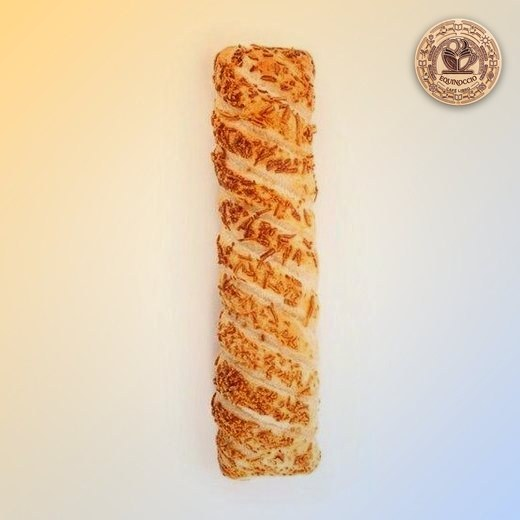
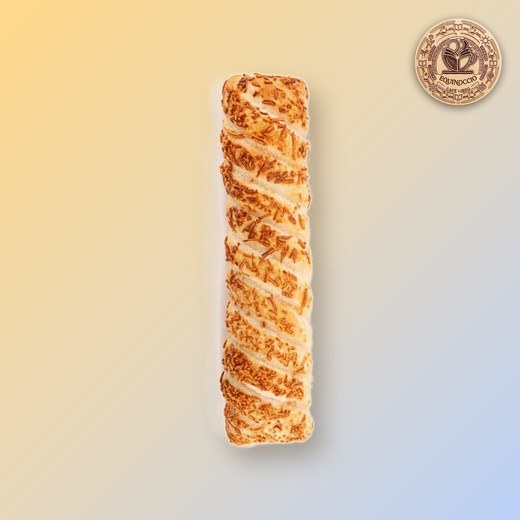
Cien Años de Soledad: foto del Drive, palito de queso crema; foto del palito queso crema desde el documento de Pastry
Claude-Session: https://claude.ai/code/session_01BZAH3jstTWfNAJgntfymtE

Changed region(s): [[0.4, 0.0615, 0.7692, 0.9231], [0.0923, 0.1846, 0.3692, 0.7692], [0.2769, 0.7692, 0.3077, 0.8]]

diff --git a/index.html b/index.html
@@ -619,7 +619,7 @@ footer .wrap{display:flex;flex-wrap:wrap;justify-content:space-between;gap:1rem}
 const PHOTOS = {"Croissant bicolor chocolate mantequilla": "assets/pasteleria/croissant-bicolor-chocolate-mantequilla.jpg", "Croissant de almendras": "assets/pasteleria/croissant-de-almendras.jpg", "Croissant bicolor frutos rojos": "assets/pasteleria/croissant-bicolor-frutos-rojos.jpg", "Rollo de canela": "assets/pasteleria/rollo-de-canela.jpg", "Crookie": "assets/pasteleria/crookie.jpg", "Mini Pan de Bono": "assets/pasteleria/pan-de-bono.jpg", "Palito queso crema": "assets/pasteleria/palito-queso-crema.jpg", "Mini-almojábana": "assets/pasteleria/almojabana.jpg", "Flauta de chocolate": "assets/pasteleria/flauta-de-chocolate.jpg", "Pastel de pollo carbonara": "assets/pasteleria/pastel-de-pollo-carbonara.jpg", "Pastel de espinaca y queso ricotta": "assets/pasteleria/pastel-de-espinaca-y-queso-ricotta.jpg", "Pastel de carne ranchero": "assets/pasteleria/pastel-de-carne-ranchero.jpg", "Pan de chocolate mantequilla": "assets/pasteleria/pan-de-chocolate-mantequilla.jpg", "Pastel de manzana": "assets/pasteleria/pastel-de-manzana.jpg", "Pastel de pollo": "assets/pasteleria/pastel-de-pollo.jpg", "Croissant multicereal mantequilla": "assets/pasteleria/croissant-multicereal-mantequilla.jpg", "Croissant Europa": "assets/pasteleria/croissant-europa.jpg", "Mini roscón de arequipe": "assets/pasteleria/mini-roscon-de-arequipe.jpg", "Palito de bocadillo y queso": "assets/pasteleria/palito-de-bocadillo-y-queso.jpg", "Pastel de arequipe": "assets/pasteleria/pastel-de-arequipe.jpg", "Pastel de zanahoria": "assets/pasteleria/pastel-de-zanahoria.jpg"};
 const DRINK_IMGS = {"Cappuccino Clásico":"assets/menu/cappuccino.jpg","Mocha Equinoccio Clásico":"assets/menu/mocha-equinoccio.jpg"};
 const CAT_IMGS = {"Sodas Frutales":["assets/menu/sodas.jpg","Tres sodas frutales con borde escarchado de azúcar morena: una morada, una amarilla y una roja, con fresa y limón"]};
-const MENU = {"categories": [{"name": "Bebidas Calientes · Café", "note": "Leche a elección: entera, deslactosada o de almendras", "items": [{"name": "Espresso Clásico", "description": "", "price": 4000, "tags": ["café", "caliente"], "additions": ["Miel", "Vainilla", "Caramelo"]}, {"name": "Americano Clásico", "description": "", "price": 4500, "tags": ["café", "caliente"], "additions": ["Vainilla", "Caramelo", "Miel"]}, {"name": "Macchiato Clásico", "description": "", "price": 6000, "tags": ["café", "caliente"], "additions": ["Caramelo", "Arequipe", "Cocoa", "Leche condensada"]}, {"name": "Flat White Clásico", "description": "", "price": 7000, "tags": ["café", "caliente"], "additions": ["Vainilla", "Caramelo", "Miel", "Leche condensada"]}, {"name": "Latte Clásico", "description": "", "price": 8000, "tags": ["café", "caliente"], "additions": ["Vainilla", "Caramelo", "Arequipe", "Leche condensada"]}, {"name": "Cappuccino Clásico", "description": "", "price": 9000, "tags": ["café", "caliente"], "additions": ["Cocoa", "Arequipe", "Caramelo", "Vainilla", "Chocolate", "Leche condensada"]}, {"name": "Mocha Equinoccio Clásico", "description": "", "price": 10000, "tags": ["café", "caliente", "de la casa"], "additions": ["Caramelo", "Arequipe", "Vainilla", "Crema chantillí", "Leche condensada"]}, {"name": "Affogato Clásico", "description": "Con helado de vainilla", "price": 11000, "tags": ["café", "helado"], "additions": ["Chantillí", "Caramelo", "Arequipe", "Cocoa", "Leche condensada"]}]}, {"name": "Chocolate caliente", "items": [{"name": "Hot Chocolate", "description": "Con malvaviscos (marshmallows)", "price": 10000, "tags": ["sin café", "caliente"]}]}, {"name": "Bebidas Frías · Café", "note": "Leche a elección: entera, deslactosada o de almendras", "items": [{"name": "Cold Brew", "description": "Café frío 24 horas y hielo. Normal, sin adición.", "price": 8000, "tags": ["café", "frío"], "additions": ["Leche espuma", "Frutos rojos", "Frutos verdes", "Frutos amarillos", "Leche condensada"], "addFlat": 2000, "addText": "Leche espuma + Frutos rojos o Frutos verdes o Frutos amarillos o Leche condensada"}, {"name": "Iced Latte", "description": "Espresso, leche fría, espuma e hielo", "price": 8000, "tags": ["café", "frío"], "additions": ["Vainilla", "Caramelo", "Arequipe", "Leche condensada", "Miel"]}, {"name": "Iced Caramel Latte", "description": "Espresso, caramelo, leche fría, espuma e hielo", "price": 8000, "tags": ["café", "frío"], "additions": ["Vainilla", "Cocoa", "Chocolate", "Arequipe", "Leche condensada"]}, {"name": "Iced Mocha Equinoccio", "description": "Espresso, chocolate, leche, nubes de espuma y hielo", "price": 10000, "tags": ["café", "frío", "de la casa"], "additions": ["Caramelo", "Arequipe", "Vainilla", "Crema chantillí", "Leche condensada"]}, {"name": "Iced Macchiaramelo Equinoccio", "description": "Espresso, vainilla, caramelo, leche, nubes de espuma y hielo", "price": 10000, "tags": ["café", "frío", "de la casa", "foto disponible"], "additions": ["Arequipe", "Crema chantillí", "Leche condensada"]}, {"name": "Fuego de Equinoccio", "description": "Espresso, vainilla, chocolate, leche, nubes de espuma y hielo", "price": 10000, "tags": ["café", "frío", "de la casa"], "additions": ["Arequipe", "Crema chantillí", "Leche condensada"]}, {"name": "Eclipse de Equinoccio", "description": "Agua, café granulado espumoso, leche, chocolate y hielo", "price": 10000, "tags": ["café", "frío", "de la casa"], "additions": ["Crema chantillí", "Leche condensada"]}, {"name": "Sol de Media Noche", "description": "Espresso doble, leche espumada, leche condensada o caramelo y hielo", "price": 10000, "tags": ["café", "frío", "de la casa"], "additions": ["Miel", "Cacao", "Chantillí", "Chocolate"]}]}, {"name": "Malteadas", "items": [{"name": "Malteada", "description": "", "price": 10000, "tags": ["sin café", "frío"], "flavors": ["Vainilla", "Macadamia"]}]}, {"name": "Sodas Frutales", "items": [{"name": "Soda Néctar Solar", "description": "Frutos amarillos. Escarchado con azúcar morena, tajín, azúcar o sal, dulce artesanal de maracuyá, perlas de lulo, agua con gas, rodaja de limón, hojas de menta e hielo.", "price": 10000, "tags": ["sin café", "frío"], "additions": ["Miel", "Panela"]}, {"name": "Soda Bosque Tropical", "description": "Frutos verdes. Escarchado con azúcar morena, tajín, azúcar o sal, dulce artesanal de mango, sirope de mango biche, limón, agua con gas, rodaja de kiwi o naranja, hojas de menta y hielo.", "price": 10000, "tags": ["sin café", "frío"], "additions": ["Miel", "Panela"]}, {"name": "Soda Pasión", "description": "Frutos rojos. Escarchado con azúcar morena, tajín, azúcar o sal, dulce artesanal de fresa, dulce artesanal de mora, agua de Jamaica, agua con gas, rodaja de limón o naranja, rodaja de fresa o manzana roja, hojas de menta y hielo.", "price": 10000, "tags": ["sin café", "frío"], "additions": ["Dulce artesanal de cereza", "Miel", "Panela"]}, {"name": "Soda Eclipse Azul", "description": "Frutos azules. Escarchado con azúcar morena, tajín, azúcar o sal, dulce artesanal de arándano, sirope de blueberry, agua con gas, rodaja de limón o naranja, hojas de menta y hielo.", "price": 10000, "tags": ["sin café", "frío"], "additions": ["Miel", "Panela"]}]}, {"name": "Tés Equinoccio", "note": "Servidos en Chemex", "items": [{"name": "Marea de Luna", "description": "Escarchado con azúcar morena, té de Frambuesa - Cacao, dulce artesanal de arándano, fresa o mora + sirope de cereza, hojas de menta.", "price": 8000, "tags": ["té", "sin café"], "additions": ["Miel"]}, {"name": "Rayo de Sol", "description": "Escarchado con azúcar morena, té de naranja-piña, dulce artesanal de maracuyá o lulo + sirope de maracuyá, hojas de menta.", "price": 8000, "tags": ["té", "sin café"], "additions": ["Miel"]}, {"name": "Luz de Primavera", "description": "Escarchado con azúcar morena, té de hierbabuena, dulce artesanal de manzana roja o verde + sirope de manzana sour, hojas de menta.", "price": 8000, "tags": ["té", "sin café"], "additions": ["Miel"]}]}, {"name": "Aromáticas Equinoccio", "items": [{"name": "Té Equinoccio", "description": "Té a elección, hoja de menta.", "price": 6000, "tags": ["aromática", "sin café", "caliente"], "flavors": ["Manzanilla", "Cidrón", "Toronjil", "Hierbabuena", "Limoncillo", "Maracuyá", "Flor de Jamaica"]}]}, {"name": "Pastelería y Panadería", "items": [{"name": "Croissant bicolor chocolate mantequilla", "description": "", "price": 6500, "tags": ["pastelería"], "priceSmall": 4500}, {"name": "Croissant de almendras", "description": "", "price": 6500, "tags": ["pastelería", "contiene frutos secos"], "priceSmall": 4500}, {"name": "Croissant bicolor frutos rojos", "description": "", "price": 6500, "tags": ["pastelería"], "priceSmall": 4500}, {"name": "Rollo de canela", "description": "", "price": 6500, "tags": ["pastelería"], "priceSmall": 4500}, {"name": "Crookie", "description": "", "price": 6500, "tags": ["pastelería"], "priceSmall": 4500}, {"name": "Mini Pan de Bono", "description": "", "price": 2500, "tags": ["panadería", "tradicional colombiano"]}, {"name": "Palito queso crema", "description": "", "price": 6500, "tags": ["panadería"], "priceSmall": 4500}, {"name": "Mini-almojábana", "description": "", "price": 2500, "tags": ["panadería", "tradicional colombiano"]}, {"name": "Flauta de chocolate", "description": "", "price": 6500, "tags": ["pastelería"]}, {"name": "Pastel de pollo carbonara", "description": "Grande de 100 g", "price": 7500, "tags": ["hojaldre", "salado"]}, {"name": "Pastel de espinaca y queso ricotta", "description": "Grande de 95 g", "price": 7500, "tags": ["hojaldre", "salado", "vegetariano"], "priceSmall": 4500}, {"name": "Pastel de carne ranchero", "description": "Grande de 100 g", "price": 7500, "tags": ["hojaldre", "salado"]}, {"name": "Pan de chocolate mantequilla", "description": "", "price": 3500, "tags": ["pastelería"]}, {"name": "Pastel de manzana", "description": "", "price": 6500, "tags": ["hojaldre", "dulce"], "priceSmall": 4500}, {"name": "Pastel de zanahoria", "description": "Con queso crema o suero costeño y ralladura de limón", "price": 6500, "tags": ["pastelería", "dulce"]}, {"name": "Pastel de pollo", "description": "", "price": 5000, "tags": ["hojaldre", "salado"]}, {"name": "Croissant multicereal mantequilla", "description": "", "price": 6500, "tags": ["pastelería"], "priceSmall": 4500}, {"name": "Croissant Europa", "description": "90 g. Jamón de cerdo o de pollo, queso mozzarella o queso crema, con lechuga, tomate y mayonesa al gusto.", "price": 12000, "tags": ["panadería", "salado"], "additions": ["Aguacate", "Jamón extra"], "addFlat": 1000, "addText": "Aguacate o jamón extra"}, {"name": "Mini roscón de arequipe", "description": "", "price": 2000, "tags": ["panadería", "tradicional colombiano"]}, {"name": "Palito de bocadillo y queso", "description": "", "price": 6500, "tags": ["panadería", "tradicional colombiano"], "priceSmall": 4500}, {"name": "Pastel de arequipe", "description": "", "price": 6500, "tags": ["hojaldre", "dulce"], "priceSmall": 4500}]}, {"name": "Combos Literarios", "note": "Una bebida y un producto de pastelería a precio especial. Adultos: calientes de 250 ml y sodas de 650 ml. Infantiles: calientes de 150 ml y sodas de 350 ml. Precios sin adiciones.", "combo": true, "items": [{"name": "El Principito", "audience": "Adultos", "salon": "Salón Luna", "quote": "Lo esencial es invisible a los ojos.", "tagline": "Un Sol de Media Noche para mirar las estrellas del salón Luna.", "drink": "Sol de Media Noche (Leche condensada con leche espumada, hielo, espresso doble y caramelo)", "bite": "Croissant bicolor de frutos rojos", "price": 15500, "save": 1000, "img": "assets/combos/principito.jpg", "tags": ["combo", "adultos"], "drinkName": "Sol de Media Noche", "temp": "Fría", "ingredients": "Leche condensada con leche espumada, hielo, espresso doble y caramelo"}, {"name": "Alicia en el País de las Maravillas", "audience": "Adultos", "salon": "Salón Equinoccio", "quote": "Cómeme” y “Bébeme", "tagline": "Una merienda de té y fantasía en el salón Equinoccio.", "drink": "Marea de Luna (Té de Frambuesa - Cacao, dulce artesanal de arándano o fresa y sirope de cereza, servido en Chemex)", "bite": "Crookie", "price": 13500, "save": 1000, "img": "assets/combos/alicia.jpg", "tags": ["combo", "adultos"], "drinkName": "Marea de Luna", "temp": "Fría", "ingredients": "Té de Frambuesa - Cacao, dulce artesanal de arándano o fresa y sirope de cereza, servido en Chemex"}, {"name": "Cien Años de Soledad", "audience": "Adultos", "salon": "Salón Sol", "quote": "Nadie se alarmó porque nadie tenía sueño.", "tagline": "Una tarde amarilla, con mariposas y sabores de Macondo.", "drink": "Soda Noche de Insomnio (Dulce artesanal de naranja, maracuyá y lulo)", "bite": "Palito de bocadillo y queso", "price": 15500, "save": 1000, "img": "assets/combos/cien.jpg", "tags": ["combo", "adultos"], "drinkName": "Soda Noche de Insomnio", "temp": "Fría", "ingredients": "Dulce artesanal de naranja, maracuyá y lulo"}, {"name": "Star Wars", "audience": "Adultos", "salon": "Salón Equinoccio", "quote": "Que la Fuerza te acompañe.", "tagline": "Dos soles, una soda azul y chocolate: una galaxia muy lejana en tu mesa.", "drink": "Soda Eclipse Azul (Dulce artesanal de Arándanos, sirope de Curazao y perlas de chicle)", "bite": "Flauta de chocolate", "price": 15500, "save": 1000, "img": "assets/combos/starwars.jpg", "tags": ["combo", "adultos"], "drinkName": "Soda Eclipse Azul", "temp": "Fría", "ingredients": "Dulce artesanal de Arándanos, sirope de Curazao y perlas de chicle"}, {"name": "Harry Potter", "audience": "Adultos", "salon": "Salón Equinoccio", "quote": "Uno puede encontrar la felicidad incluso en los momentos más oscuros, si uno recuerda encender la luz.", "tagline": "Chocolate caliente espumoso con malvaviscos tostados y un croissant bien servido, como en el Gran Comedor, junto a la chimenea.", "drink": "Hot Chocolate (Chocolate bien caliente y espumoso, con malvaviscos tostados y cacao)", "bite": "Croissant Europa", "price": 21000, "save": 1000, "img": "assets/combos/harrypotter.jpg", "tags": ["combo", "adultos"], "drinkName": "Hot Chocolate", "temp": "Caliente", "ingredients": "Chocolate bien caliente y espumoso, con malvaviscos tostados y cacao"}, {"name": "Peter Pan", "audience": "Niños", "salon": "Salón Luna", "quote": "La segunda estrella a la derecha y todo recto hasta el amanecer.", "tagline": "Una soda verde para volar hasta Nunca Jamás.", "drink": "Soda Bosque Tropical (Sumo de limón, rodajas de limón, rodajas de kiwi y perlas verdes de Lulo)", "bite": "Mini roscón de arequipe", "price": 8500, "save": 500, "img": "assets/combos/peterpan.jpg", "tags": ["combo", "niños"], "drinkName": "Soda Bosque Tropical", "temp": "Fría", "ingredients": "Sumo de limón, rodajas de limón, rodajas de kiwi y perlas verdes de Lulo"}, {"name": "Matilda", "audience": "Niños", "salon": "Salón Luna", "quote": "Los libros le dieron un mensaje de esperanza: no estás sola.", "tagline": "Una merienda para pequeños grandes lectores.", "drink": "Malteada de macadamia (Malteada de tamaño infantil)", "bite": "Pan de bono", "price": 8500, "save": 500, "img": "assets/combos/matilda.jpg", "tags": ["combo", "niños"], "drinkName": "Malteada de macadamia", "temp": "Fría", "ingredients": "Malteada de tamaño infantil"}, {"name": "Caperucita Roja", "audience": "Niños", "salon": "Salón Equinoccio", "quote": "Abuelita, ¡qué ojos tan grandes tienes! — ¡Son para verte mejor!", "tagline": "Una canasta para compartir camino a casa de la abuela.", "drink": "Malteada de vainilla (Malteada de tamaño infantil)", "bite": "Pastel de manzana", "price": 12000, "save": 500, "img": "assets/combos/caperucita.jpg", "tags": ["combo", "niños"], "drinkName": "Malteada de vainilla", "temp": "Fría", "ingredients": "Malteada de tamaño infantil"}, {"name": "Charlie y la Fábrica de Chocolate", "audience": "Niños", "salon": "Salón Sol", "quote": "¡Grandes cosas te esperan! ¡Muchas sorpresas maravillosas te aguardan!", "tagline": "Chocolate caliente y un boleto dorado para tu merienda.", "drink": "Chocolate caliente infantil (Chocolate caliente con malvaviscos)", "bite": "Pan de chocolate", "price": 9500, "save": 500, "img": "assets/combos/charlie.jpg", "tags": ["combo", "niños"], "drinkName": "Chocolate caliente infantil", "temp": "Caliente", "ingredients": "Chocolate caliente con malvaviscos", "unavailable": true}, {"name": "Hansel y Gretel", "audience": "Niños", "salon": "Salón Equinoccio", "quote": "Mordisquea, mordisquea, ratoncito, ¿quién mordisquea mi casita?", "tagline": "Una casita de dulce para no perderse.", "drink": "Malteada de vainilla (Malteada de tamaño infantil)", "bite": "Pastel de arequipe", "price": 10000, "save": 500, "img": "assets/combos/hansel.jpg", "tags": ["combo", "niños"], "drinkName": "Malteada de vainilla", "temp": "Fría", "ingredients": "Malteada de tamaño infantil"}]}]};
+const MENU = {"categories": [{"name": "Bebidas Calientes · Café", "note": "Leche a elección: entera, deslactosada o de almendras", "items": [{"name": "Espresso Clásico", "description": "", "price": 4000, "tags": ["café", "caliente"], "additions": ["Miel", "Vainilla", "Caramelo"]}, {"name": "Americano Clásico", "description": "", "price": 4500, "tags": ["café", "caliente"], "additions": ["Vainilla", "Caramelo", "Miel"]}, {"name": "Macchiato Clásico", "description": "", "price": 6000, "tags": ["café", "caliente"], "additions": ["Caramelo", "Arequipe", "Cocoa", "Leche condensada"]}, {"name": "Flat White Clásico", "description": "", "price": 7000, "tags": ["café", "caliente"], "additions": ["Vainilla", "Caramelo", "Miel", "Leche condensada"]}, {"name": "Latte Clásico", "description": "", "price": 8000, "tags": ["café", "caliente"], "additions": ["Vainilla", "Caramelo", "Arequipe", "Leche condensada"]}, {"name": "Cappuccino Clásico", "description": "", "price": 9000, "tags": ["café", "caliente"], "additions": ["Cocoa", "Arequipe", "Caramelo", "Vainilla", "Chocolate", "Leche condensada"]}, {"name": "Mocha Equinoccio Clásico", "description": "", "price": 10000, "tags": ["café", "caliente", "de la casa"], "additions": ["Caramelo", "Arequipe", "Vainilla", "Crema chantillí", "Leche condensada"]}, {"name": "Affogato Clásico", "description": "Con helado de vainilla", "price": 11000, "tags": ["café", "helado"], "additions": ["Chantillí", "Caramelo", "Arequipe", "Cocoa", "Leche condensada"]}]}, {"name": "Chocolate caliente", "items": [{"name": "Hot Chocolate", "description": "Con malvaviscos (marshmallows)", "price": 10000, "tags": ["sin café", "caliente"]}]}, {"name": "Bebidas Frías · Café", "note": "Leche a elección: entera, deslactosada o de almendras", "items": [{"name": "Cold Brew", "description": "Café frío 24 horas y hielo. Normal, sin adición.", "price": 8000, "tags": ["café", "frío"], "additions": ["Leche espuma", "Frutos rojos", "Frutos verdes", "Frutos amarillos", "Leche condensada"], "addFlat": 2000, "addText": "Leche espuma + Frutos rojos o Frutos verdes o Frutos amarillos o Leche condensada"}, {"name": "Iced Latte", "description": "Espresso, leche fría, espuma e hielo", "price": 8000, "tags": ["café", "frío"], "additions": ["Vainilla", "Caramelo", "Arequipe", "Leche condensada", "Miel"]}, {"name": "Iced Caramel Latte", "description": "Espresso, caramelo, leche fría, espuma e hielo", "price": 8000, "tags": ["café", "frío"], "additions": ["Vainilla", "Cocoa", "Chocolate", "Arequipe", "Leche condensada"]}, {"name": "Iced Mocha Equinoccio", "description": "Espresso, chocolate, leche, nubes de espuma y hielo", "price": 10000, "tags": ["café", "frío", "de la casa"], "additions": ["Caramelo", "Arequipe", "Vainilla", "Crema chantillí", "Leche condensada"]}, {"name": "Iced Macchiaramelo Equinoccio", "description": "Espresso, vainilla, caramelo, leche, nubes de espuma y hielo", "price": 10000, "tags": ["café", "frío", "de la casa", "foto disponible"], "additions": ["Arequipe", "Crema chantillí", "Leche condensada"]}, {"name": "Fuego de Equinoccio", "description": "Espresso, vainilla, chocolate, leche, nubes de espuma y hielo", "price": 10000, "tags": ["café", "frío", "de la casa"], "additions": ["Arequipe", "Crema chantillí", "Leche condensada"]}, {"name": "Eclipse de Equinoccio", "description": "Agua, café granulado espumoso, leche, chocolate y hielo", "price": 10000, "tags": ["café", "frío", "de la casa"], "additions": ["Crema chantillí", "Leche condensada"]}, {"name": "Sol de Media Noche", "description": "Espresso doble, leche espumada, leche condensada o caramelo y hielo", "price": 10000, "tags": ["café", "frío", "de la casa"], "additions": ["Miel", "Cacao", "Chantillí", "Chocolate"]}]}, {"name": "Malteadas", "items": [{"name": "Malteada", "description": "", "price": 10000, "tags": ["sin café", "frío"], "flavors": ["Vainilla", "Macadamia"]}]}, {"name": "Sodas Frutales", "items": [{"name": "Soda Néctar Solar", "description": "Frutos amarillos. Escarchado con azúcar morena, tajín, azúcar o sal, dulce artesanal de maracuyá, perlas de lulo, agua con gas, rodaja de limón, hojas de menta e hielo.", "price": 10000, "tags": ["sin café", "frío"], "additions": ["Miel", "Panela"]}, {"name": "Soda Bosque Tropical", "description": "Frutos verdes. Escarchado con azúcar morena, tajín, azúcar o sal, dulce artesanal de mango, sirope de mango biche, limón, agua con gas, rodaja de kiwi o naranja, hojas de menta y hielo.", "price": 10000, "tags": ["sin café", "frío"], "additions": ["Miel", "Panela"]}, {"name": "Soda Pasión", "description": "Frutos rojos. Escarchado con azúcar morena, tajín, azúcar o sal, dulce artesanal de fresa, dulce artesanal de mora, agua de Jamaica, agua con gas, rodaja de limón o naranja, rodaja de fresa o manzana roja, hojas de menta y hielo.", "price": 10000, "tags": ["sin café", "frío"], "additions": ["Dulce artesanal de cereza", "Miel", "Panela"]}, {"name": "Soda Eclipse Azul", "description": "Frutos azules. Escarchado con azúcar morena, tajín, azúcar o sal, dulce artesanal de arándano, sirope de blueberry, agua con gas, rodaja de limón o naranja, hojas de menta y hielo.", "price": 10000, "tags": ["sin café", "frío"], "additions": ["Miel", "Panela"]}]}, {"name": "Tés Equinoccio", "note": "Servidos en Chemex", "items": [{"name": "Marea de Luna", "description": "Escarchado con azúcar morena, té de Frambuesa - Cacao, dulce artesanal de arándano, fresa o mora + sirope de cereza, hojas de menta.", "price": 8000, "tags": ["té", "sin café"], "additions": ["Miel"]}, {"name": "Rayo de Sol", "description": "Escarchado con azúcar morena, té de naranja-piña, dulce artesanal de maracuyá o lulo + sirope de maracuyá, hojas de menta.", "price": 8000, "tags": ["té", "sin café"], "additions": ["Miel"]}, {"name": "Luz de Primavera", "description": "Escarchado con azúcar morena, té de hierbabuena, dulce artesanal de manzana roja o verde + sirope de manzana sour, hojas de menta.", "price": 8000, "tags": ["té", "sin café"], "additions": ["Miel"]}]}, {"name": "Aromáticas Equinoccio", "items": [{"name": "Té Equinoccio", "description": "Té a elección, hoja de menta.", "price": 6000, "tags": ["aromática", "sin café", "caliente"], "flavors": ["Manzanilla", "Cidrón", "Toronjil", "Hierbabuena", "Limoncillo", "Maracuyá", "Flor de Jamaica"]}]}, {"name": "Pastelería y Panadería", "items": [{"name": "Croissant bicolor chocolate mantequilla", "description": "", "price": 6500, "tags": ["pastelería"], "priceSmall": 4500}, {"name": "Croissant de almendras", "description": "", "price": 6500, "tags": ["pastelería", "contiene frutos secos"], "priceSmall": 4500}, {"name": "Croissant bicolor frutos rojos", "description": "", "price": 6500, "tags": ["pastelería"], "priceSmall": 4500}, {"name": "Rollo de canela", "description": "", "price": 6500, "tags": ["pastelería"], "priceSmall": 4500}, {"name": "Crookie", "description": "", "price": 6500, "tags": ["pastelería"], "priceSmall": 4500}, {"name": "Mini Pan de Bono", "description": "", "price": 2500, "tags": ["panadería", "tradicional colombiano"]}, {"name": "Palito queso crema", "description": "", "price": 6500, "tags": ["panadería"], "priceSmall": 4500}, {"name": "Mini-almojábana", "description": "", "price": 2500, "tags": ["panadería", "tradicional colombiano"]}, {"name": "Flauta de chocolate", "description": "", "price": 6500, "tags": ["pastelería"]}, {"name": "Pastel de pollo carbonara", "description": "Grande de 100 g", "price": 7500, "tags": ["hojaldre", "salado"]}, {"name": "Pastel de espinaca y queso ricotta", "description": "Grande de 95 g", "price": 7500, "tags": ["hojaldre", "salado", "vegetariano"], "priceSmall": 4500}, {"name": "Pastel de carne ranchero", "description": "Grande de 100 g", "price": 7500, "tags": ["hojaldre", "salado"]}, {"name": "Pan de chocolate mantequilla", "description": "", "price": 3500, "tags": ["pastelería"]}, {"name": "Pastel de manzana", "description": "", "price": 6500, "tags": ["hojaldre", "dulce"], "priceSmall": 4500}, {"name": "Pastel de zanahoria", "description": "Con queso crema o suero costeño y ralladura de limón", "price": 6500, "tags": ["pastelería", "dulce"]}, {"name": "Pastel de pollo", "description": "", "price": 5000, "tags": ["hojaldre", "salado"]}, {"name": "Croissant multicereal mantequilla", "description": "", "price": 6500, "tags": ["pastelería"], "priceSmall": 4500}, {"name": "Croissant Europa", "description": "90 g. Jamón de cerdo o de pollo, queso mozzarella o queso crema, con lechuga, tomate y mayonesa al gusto.", "price": 12000, "tags": ["panadería", "salado"], "additions": ["Aguacate", "Jamón extra"], "addFlat": 1000, "addText": "Aguacate o jamón extra"}, {"name": "Mini roscón de arequipe", "description": "", "price": 2000, "tags": ["panadería", "tradicional colombiano"]}, {"name": "Palito de bocadillo y queso", "description": "", "price": 6500, "tags": ["panadería", "tradicional colombiano"], "priceSmall": 4500}, {"name": "Pastel de arequipe", "description": "", "price": 6500, "tags": ["hojaldre", "dulce"], "priceSmall": 4500}]}, {"name": "Combos Literarios", "note": "Una bebida y un producto de pastelería a precio especial. Adultos: calientes de 250 ml y sodas de 650 ml. Infantiles: calientes de 150 ml y sodas de 350 ml. Precios sin adiciones.", "combo": true, "items": [{"name": "El Principito", "audience": "Adultos", "salon": "Salón Luna", "quote": "Lo esencial es invisible a los ojos.", "tagline": "Un Sol de Media Noche para mirar las estrellas del salón Luna.", "drink": "Sol de Media Noche (Leche condensada con leche espumada, hielo, espresso doble y caramelo)", "bite": "Croissant bicolor de frutos rojos", "price": 15500, "save": 1000, "img": "assets/combos/principito.jpg", "tags": ["combo", "adultos"], "drinkName": "Sol de Media Noche", "temp": "Fría", "ingredients": "Leche condensada con leche espumada, hielo, espresso doble y caramelo"}, {"name": "Alicia en el País de las Maravillas", "audience": "Adultos", "salon": "Salón Equinoccio", "quote": "Cómeme” y “Bébeme", "tagline": "Una merienda de té y fantasía en el salón Equinoccio.", "drink": "Marea de Luna (Té de Frambuesa - Cacao, dulce artesanal de arándano o fresa y sirope de cereza, servido en Chemex)", "bite": "Crookie", "price": 13500, "save": 1000, "img": "assets/combos/alicia.jpg", "tags": ["combo", "adultos"], "drinkName": "Marea de Luna", "temp": "Fría", "ingredients": "Té de Frambuesa - Cacao, dulce artesanal de arándano o fresa y sirope de cereza, servido en Chemex"}, {"name": "Cien Años de Soledad", "audience": "Adultos", "salon": "Salón Sol", "quote": "Nadie se alarmó porque nadie tenía sueño.", "tagline": "Una tarde amarilla, con mariposas y sabores de Macondo.", "drink": "Soda Noche de Insomnio (Dulce artesanal de naranja, maracuyá y lulo)", "bite": "Palito de queso crema", "price": 15500, "save": 1000, "img": "assets/combos/cien.jpg", "tags": ["combo", "adultos"], "drinkName": "Soda Noche de Insomnio", "temp": "Fría", "ingredients": "Dulce artesanal de naranja, maracuyá y lulo"}, {"name": "Star Wars", "audience": "Adultos", "salon": "Salón Equinoccio", "quote": "Que la Fuerza te acompañe.", "tagline": "Dos soles, una soda azul y chocolate: una galaxia muy lejana en tu mesa.", "drink": "Soda Eclipse Azul (Dulce artesanal de Arándanos, sirope de Curazao y perlas de chicle)", "bite": "Flauta de chocolate", "price": 15500, "save": 1000, "img": "assets/combos/starwars.jpg", "tags": ["combo", "adultos"], "drinkName": "Soda Eclipse Azul", "temp": "Fría", "ingredients": "Dulce artesanal de Arándanos, sirope de Curazao y perlas de chicle"}, {"name": "Harry Potter", "audience": "Adultos", "salon": "Salón Equinoccio", "quote": "Uno puede encontrar la felicidad incluso en los momentos más oscuros, si uno recuerda encender la luz.", "tagline": "Chocolate caliente espumoso con malvaviscos tostados y un croissant bien servido, como en el Gran Comedor, junto a la chimenea.", "drink": "Hot Chocolate (Chocolate bien caliente y espumoso, con malvaviscos tostados y cacao)", "bite": "Croissant Europa", "price": 21000, "save": 1000, "img": "assets/combos/harrypotter.jpg", "tags": ["combo", "adultos"], "drinkName": "Hot Chocolate", "temp": "Caliente", "ingredients": "Chocolate bien caliente y espumoso, con malvaviscos tostados y cacao"}, {"name": "Peter Pan", "audience": "Niños", "salon": "Salón Luna", "quote": "La segunda estrella a la derecha y todo recto hasta el amanecer.", "tagline": "Una soda verde para volar hasta Nunca Jamás.", "drink": "Soda Bosque Tropical (Sumo de limón, rodajas de limón, rodajas de kiwi y perlas verdes de Lulo)", "bite": "Mini roscón de arequipe", "price": 8500, "save": 500, "img": "assets/combos/peterpan.jpg", "tags": ["combo", "niños"], "drinkName": "Soda Bosque Tropical", "temp": "Fría", "ingredients": "Sumo de limón, rodajas de limón, rodajas de kiwi y perlas verdes de Lulo"}, {"name": "Matilda", "audience": "Niños", "salon": "Salón Luna", "quote": "Los libros le dieron un mensaje de esperanza: no estás sola.", "tagline": "Una merienda para pequeños grandes lectores.", "drink": "Malteada de macadamia (Malteada de tamaño infantil)", "bite": "Pan de bono", "price": 8500, "save": 500, "img": "assets/combos/matilda.jpg", "tags": ["combo", "niños"], "drinkName": "Malteada de macadamia", "temp": "Fría", "ingredients": "Malteada de tamaño infantil"}, {"name": "Caperucita Roja", "audience": "Niños", "salon": "Salón Equinoccio", "quote": "Abuelita, ¡qué ojos tan grandes tienes! — ¡Son para verte mejor!", "tagline": "Una canasta para compartir camino a casa de la abuela.", "drink": "Malteada de vainilla (Malteada de tamaño infantil)", "bite": "Pastel de manzana", "price": 12000, "save": 500, "img": "assets/combos/caperucita.jpg", "tags": ["combo", "niños"], "drinkName": "Malteada de vainilla", "temp": "Fría", "ingredients": "Malteada de tamaño infantil"}, {"name": "Charlie y la Fábrica de Chocolate", "audience": "Niños", "salon": "Salón Sol", "quote": "¡Grandes cosas te esperan! ¡Muchas sorpresas maravillosas te aguardan!", "tagline": "Chocolate caliente y un boleto dorado para tu merienda.", "drink": "Chocolate caliente infantil (Chocolate caliente con malvaviscos)", "bite": "Pan de chocolate", "price": 9500, "save": 500, "img": "assets/combos/charlie.jpg", "tags": ["combo", "niños"], "drinkName": "Chocolate caliente infantil", "temp": "Caliente", "ingredients": "Chocolate caliente con malvaviscos", "unavailable": true}, {"name": "Hansel y Gretel", "audience": "Niños", "salon": "Salón Equinoccio", "quote": "Mordisquea, mordisquea, ratoncito, ¿quién mordisquea mi casita?", "tagline": "Una casita de dulce para no perderse.", "drink": "Malteada de vainilla (Malteada de tamaño infantil)", "bite": "Pastel de arequipe", "price": 10000, "save": 500, "img": "assets/combos/hansel.jpg", "tags": ["combo", "niños"], "drinkName": "Malteada de vainilla", "temp": "Fría", "ingredients": "Malteada de tamaño infantil"}]}]};
 /* Recargo por adición: $500 (miel, panela, vainilla, caramelo); $1.000 (arequipe, cocoa/cacao, chocolate, leche condensada, chantillí, dulces y siropes) */
 const ADD500 = ["miel","panela","vainilla","caramelo"];
 const addTier = n => ADD500.includes(n.trim().toLowerCase()) ? 500 : 1000;
